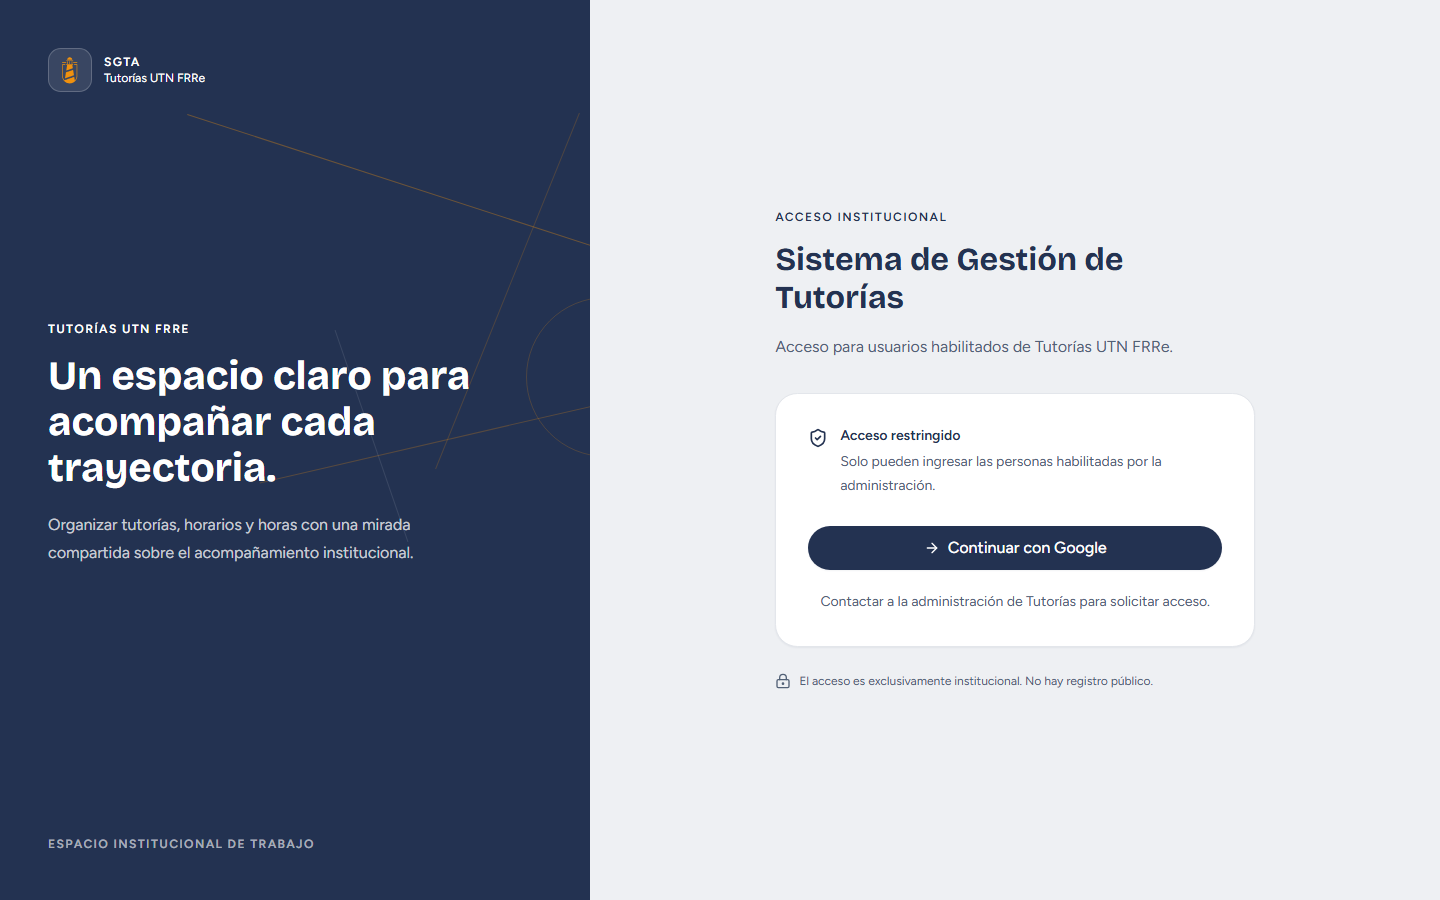
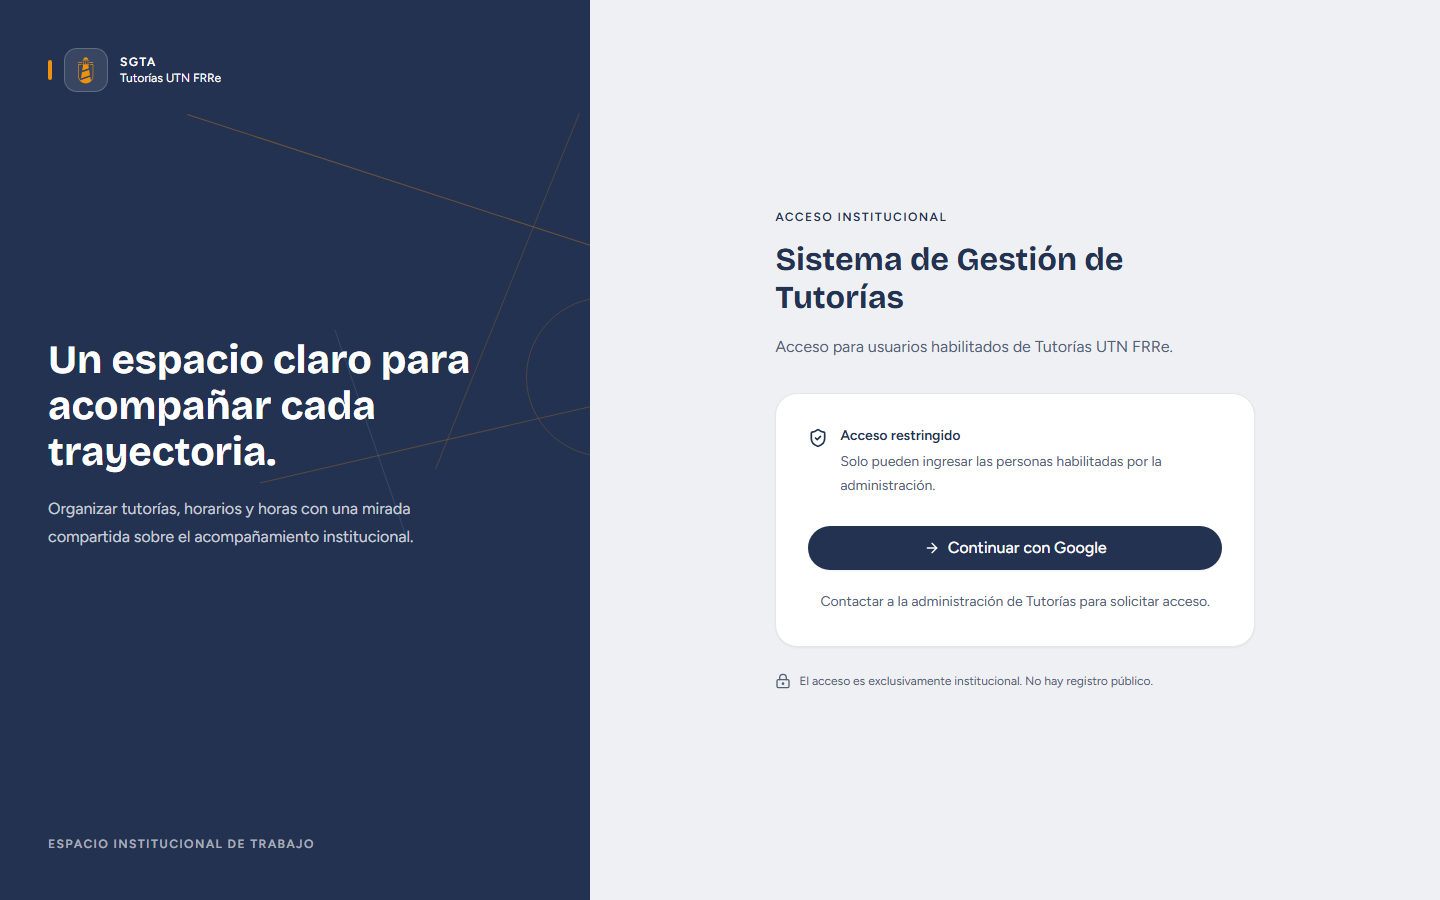
feat: reconcile login with the view specification

Changed region(s): [[0.0312, 0.3422, 0.3438, 0.6222], [0.0312, 0.0622, 0.1562, 0.0933]]

diff --git a/src/app/login/login-screen.tsx b/src/app/login/login-screen.tsx
@@ -5,6 +5,7 @@ import {
   CircleAlert,
   LockKeyhole,
   LoaderCircle,
+  RotateCw,
   ShieldCheck,
 } from "lucide-react";
 import { useState } from "react";
@@ -29,7 +30,7 @@ export interface LoginScreenProps {
   onRetry?: () => void;
 }
 
-function FaroBeam() {
+function FaroIllustration() {
   return (
     <div
       aria-hidden="true"
@@ -149,6 +150,11 @@ export function LoginScreen({
 
   const isLoading = currentState === "loading";
   const isError = currentState === "error";
+  // Permission denial already states the recovery guidance in its status message.
+  const showsRecovery = currentState !== "permission-denied";
+  const statusDescriptionIds = showsRecovery
+    ? "login-status login-recovery login-access-note"
+    : "login-status login-access-note";
   const buttonLabel = isError ? "Reintentar" : data.ctaLabel;
 
   const startGoogleSignIn = () => {
@@ -180,14 +186,18 @@ export function LoginScreen({
       data-slot="login-screen"
       data-state={currentState}
     >
-      <div className="grid min-h-svh md:grid-cols-[minmax(18rem,0.82fr)_minmax(28rem,1.18fr)]">
+      <div className="flex min-h-svh flex-col md:grid md:grid-cols-[minmax(18rem,0.82fr)_minmax(28rem,1.18fr)]">
         <section
           aria-label="Identidad institucional"
-          className="relative isolate flex min-h-[18rem] overflow-hidden bg-brand-navy px-6 py-8 text-white sm:px-10 sm:py-10 md:min-h-full md:px-8 md:py-10 lg:px-12 lg:py-12"
+          className="relative isolate flex overflow-hidden bg-brand-navy px-6 py-6 text-white sm:px-10 sm:py-10 md:min-h-full md:px-8 md:py-10 lg:px-12 lg:py-12"
         >
-          <FaroBeam />
-          <div className="relative z-overlay flex w-full flex-col justify-between gap-12">
+          <FaroIllustration />
+          <div className="relative z-overlay flex w-full flex-col justify-between gap-6 md:gap-12">
             <div className="flex items-center gap-3">
+              <span
+                aria-hidden="true"
+                className="h-5 w-1 shrink-0 rounded-full bg-sidebar-marker"
+              />
               <span className="flex h-11 w-11 items-center justify-center rounded-md border border-white/20 bg-white/10 text-faro">
                 <TutoriasMark aria-hidden="true" className="h-7 w-7" />
               </span>
@@ -202,19 +212,16 @@ export function LoginScreen({
             </div>
 
             <div className="max-w-lg lg:pb-10">
-              <p className="text-xs font-semibold uppercase tracking-eyebrow text-white">
-                {data.institutionalContext}
-              </p>
-              <h2 className="mt-4 max-w-md font-display text-display font-semibold text-white">
+              <h2 className="max-w-md font-display text-2xl font-semibold text-white lg:text-display">
                 Un espacio claro para acompañar cada trayectoria.
               </h2>
-              <p className="mt-5 max-w-md text-sm leading-7 text-white/75 sm:text-base">
+              <p className="mt-3 max-w-md text-sm leading-6 text-white/75 md:mt-5 md:leading-7 lg:text-base">
                 Organizar tutorías, horarios y horas con una mirada compartida
                 sobre el acompañamiento institucional.
               </p>
             </div>
 
-            <p className="text-xs font-semibold uppercase tracking-eyebrow text-white/60">
+            <p className="hidden text-xs font-semibold uppercase tracking-eyebrow text-white/60 md:block">
               Espacio institucional de trabajo
             </p>
           </div>
@@ -222,7 +229,7 @@ export function LoginScreen({
 
         <section
           aria-label="Acceso institucional"
-          className="flex min-w-0 items-center justify-center bg-background px-6 py-12 sm:px-10 sm:py-16 lg:px-16"
+          className="flex min-w-0 flex-1 items-center justify-center bg-background px-6 py-8 sm:px-10 sm:py-16 lg:px-16"
         >
           <div className="w-full max-w-[30rem]">
             <div className="mb-8">
@@ -242,7 +249,7 @@ export function LoginScreen({
 
             <div
               aria-busy={isLoading}
-              aria-describedby="login-status login-recovery login-access-note"
+              aria-describedby={statusDescriptionIds}
               className="rounded-xl border border-border bg-card p-6 shadow-xs sm:p-8"
             >
               <LoginFeedback data={data} state={currentState} />
@@ -257,19 +264,21 @@ export function LoginScreen({
                 {isLoading ? (
                   <LoaderCircle aria-hidden="true" className="animate-spin" />
                 ) : isError ? (
-                  <CircleAlert aria-hidden="true" />
+                  <RotateCw aria-hidden="true" />
                 ) : (
                   <ArrowRight aria-hidden="true" />
                 )}
                 {buttonLabel}
               </Button>
 
-              <p
-                className="mt-5 text-center text-sm leading-6 text-muted-foreground"
-                id="login-recovery"
-              >
-                {data.recoveryText}
-              </p>
+              {showsRecovery ? (
+                <p
+                  className="mt-5 text-center text-sm leading-6 text-muted-foreground"
+                  id="login-recovery"
+                >
+                  {data.recoveryText}
+                </p>
+              ) : null}
             </div>
 
             <div

diff --git a/src/app/login/login-screen.test.tsx b/src/app/login/login-screen.test.tsx
@@ -31,7 +31,8 @@ describe("LoginScreen", () => {
     );
     expect(screen.getByRole("heading", { level: 2 })).toHaveClass(
       "font-display",
-      "text-display",
+      "text-2xl",
+      "lg:text-display",
       "font-semibold",
     );
     expect(screen.getByText("Acceso institucional")).toHaveClass(
@@ -84,6 +85,7 @@ describe("LoginScreen", () => {
     expect(screen.getByRole("status")).toHaveTextContent(
       data.states.permissionDeniedDescription,
     );
+    expect(screen.getAllByText(data.recoveryText)).toHaveLength(1);
     expect(screen.queryByRole("alert")).not.toBeInTheDocument();
   });
 

diff --git a/design/ui-spec/login.md b/design/ui-spec/login.md
@@ -8,10 +8,10 @@ Global rules, system states, and the route inventory live in [UI-SPEC](../UI-SPE
 
 ## Content order
 
-1. Tutorías and SGTA identity: the Faro mark with the Faro Beam and the UTN FRRe context. This is the only view with an illustration.
-2. Title and restricted-access explanation.
-3. `Continuar con Google`.
-4. Recovery guidance for an account without access.
+1. Brand zone: the Faro Beam at the leading edge of the Faro mark, with `SGTA` and `Tutorías UTN FRRe` beside it; the brand headline and its supporting sentence; and, from Medium, the `Espacio institucional de trabajo` footer line. The Faro illustration, decorative lines on the navy brand zone, sits behind this content. This is the only view with an illustration.
+2. Access zone heading: the `Acceso institucional` eyebrow, the title, and the supporting text.
+3. Access panel: the status message (the `Acceso restringido` notice by default, or the loading, error, or permission-denied message), then `Continuar con Google`, then the recovery guidance for an account without access. Permission denied shows the recovery guidance once, inside its message.
+4. Access note below the panel: `El acceso es exclusivamente institucional. No hay registro público.`
 
 The page needs only session state, OAuth availability, and enabled SGTA user resolution after the callback. No product data loads before authorization succeeds. Public signup does not exist.
 
@@ -19,28 +19,30 @@ The page needs only session state, OAuth availability, and enabled SGTA user res
 
 ```text
 +--------------------------------------------------------------+
-|                         |                                    |
-| Brand identity          |  Sistema de Gestión de Tutorías    |
-| Faro mark / beam        |  Acceso para usuarios habilitados  |
-| UTN FRRe context        |                                    |
-|                         |  [ Continuar con Google ]          |
-|                         |                                    |
-|                         |  access/help copy                  |
+| | [mark] SGTA           |  ACCESO INSTITUCIONAL              |
+|   Tutorías UTN FRRe     |  Sistema de Gestión de Tutorías    |
+|                         |  Acceso para usuarios habilitados  |
+|  Brand headline         |  +----------------------------+    |
+|  Supporting sentence    |  | status message             |    |
+|  (Faro illustration)    |  | [ Continuar con Google ]   |    |
+|                         |  | recovery guidance          |    |
+|                         |  +----------------------------+    |
+| ESPACIO INSTITUCIONAL   |  access note                       |
 +--------------------------------------------------------------+
 ```
 
 ## Responsive exceptions
 
-- Wide: a branded two-zone composition; the login content stays narrower than the application workspace.
-- Medium: the same two zones with narrower proportions.
-- Compact: one column with the brand block above the form; the action fills the usable form width.
+- Wide: a branded two-zone composition; the login content stays narrower than the application workspace. The brand headline uses the Display role.
+- Medium: the same two zones with narrower proportions; the brand headline uses the Compact Page title size so it stays within three lines.
+- Compact: one column with a short brand block above the form: the mark, headline, and supporting sentence, without the footer line. The brand block keeps its content height, `Continuar con Google` stays within the first 844px viewport, and the action fills the usable form width.
 
 ## States
 
 | State | Treatment |
 | --- | --- |
-| Default | Brand and primary action. |
-| Loading | The action is disabled against repeated activation and shows compact progress without layout shift. |
+| Default | Brand, the `Acceso restringido` notice, and the primary action. |
+| Loading | The action is disabled against repeated activation and shows compact progress without layout shift; the status message reads `Conectando…` with `Verificando el acceso. Espere un momento.` |
 | Error | A technical explanation with `Reintentar`, announced through a live region. |
 | Permission denied | An access explanation with administrative recovery, distinct from the technical error. |
 
@@ -50,18 +52,27 @@ The page needs only session state, OAuth availability, and enabled SGTA user res
 | --- | --- |
 | Title | Sistema de Gestión de Tutorías |
 | Supporting text | Acceso para usuarios habilitados de Tutorías UTN FRRe. |
+| Access eyebrow | Acceso institucional |
+| Brand headline | Un espacio claro para acompañar cada trayectoria. |
+| Brand supporting sentence | Organizar tutorías, horarios y horas con una mirada compartida sobre el acompañamiento institucional. |
+| Brand footer | Espacio institucional de trabajo |
+| Default notice | `Acceso restringido` with `Solo pueden ingresar las personas habilitadas por la administración.` |
 | Primary action | Continuar con Google |
+| Recovery guidance | Contactar a la administración de Tutorías para solicitar acceso. |
+| Access note | El acceso es exclusivamente institucional. No hay registro público. |
+| Loading | `Conectando…` with `Verificando el acceso. Espere un momento.` |
 | Empty | None |
-| Error | `No se pudo iniciar sesión` with `Reintentar` |
+| Error | `No se pudo iniciar sesión` with `Reintentar en unos instantes. Si el problema continúa, contactar a la administración.` and the `Reintentar` action |
 | Permission denied | `Esta cuenta no está habilitada en SGTA` with `Contactar a la administración de Tutorías para solicitar acceso.` |
 | Success | None; the user is redirected |
 
 ## Accessibility
 
-- One `h1`.
+- One `h1`, the title; the brand headline is an `h2` inside the `Identidad institucional` region, and the form zone is the `Acceso institucional` region.
 - The sign-in button has a clear accessible name.
 - Errors are announced through a live region.
-- The brand mark is decorative when it repeats visible text.
+- The brand mark, the Faro Beam, and the Faro illustration are decorative and hidden from assistive technology.
+- The access panel is described by its status message, the recovery guidance when shown, and the access note.
 - Focus never lands on decorative elements.
 
 ## Acceptance criteria
